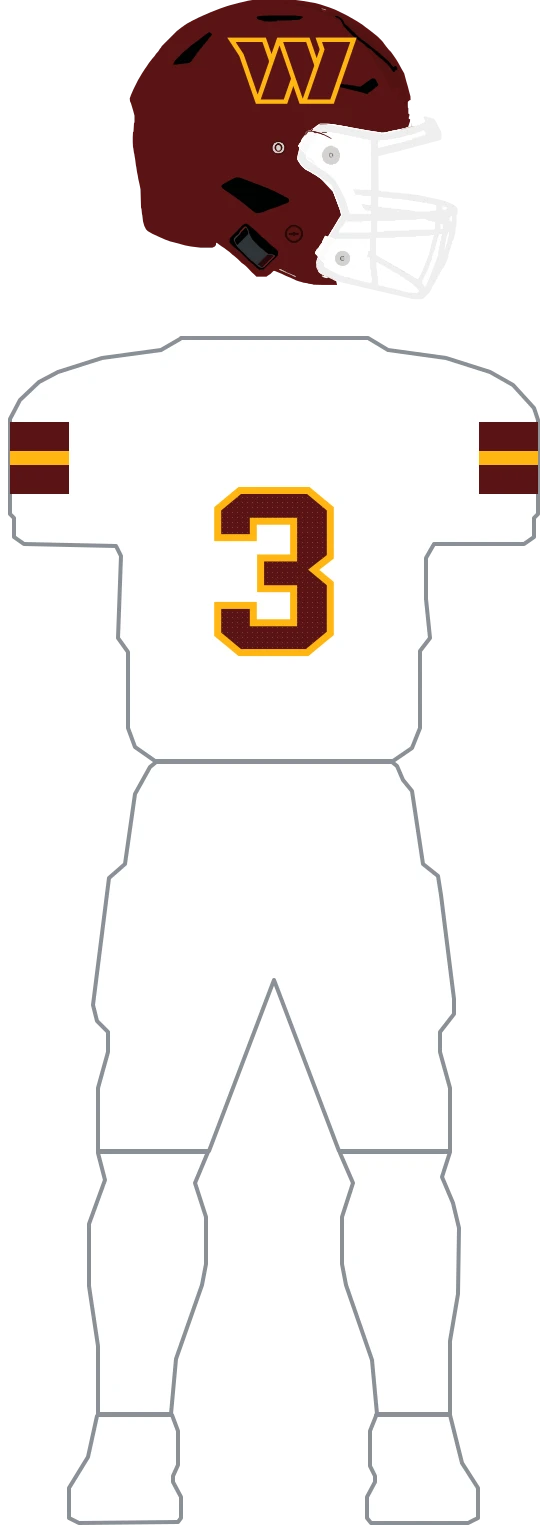
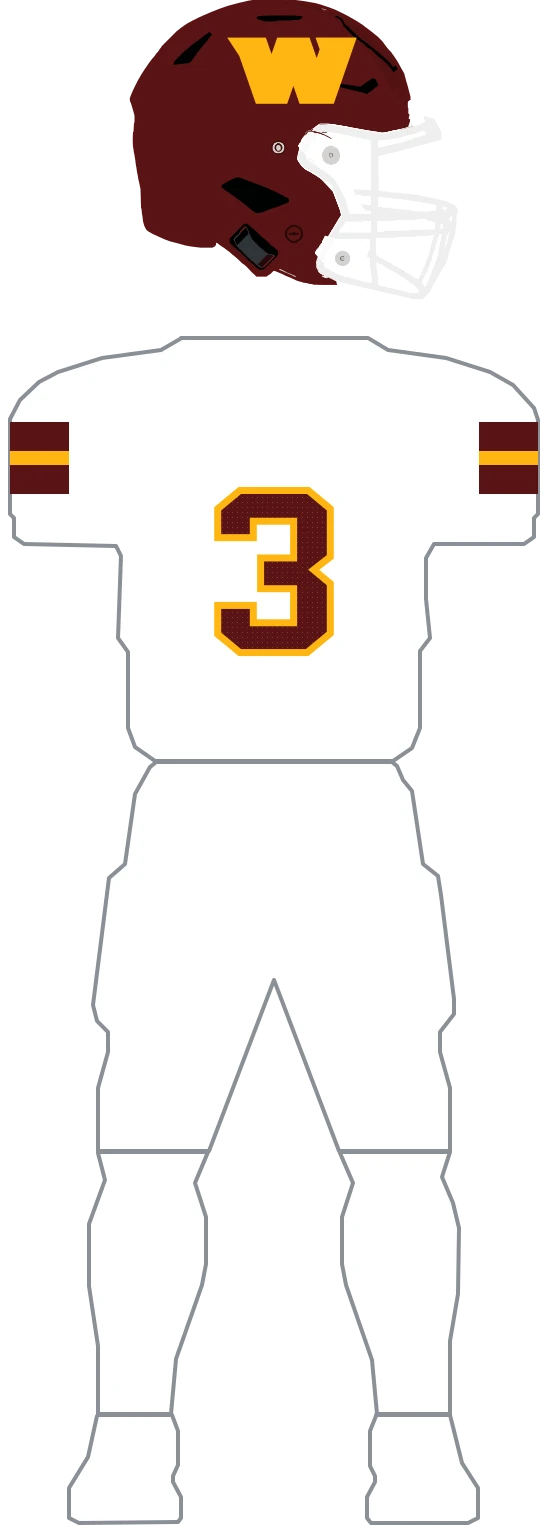
fix(uniforms): fill Commanders helmet decal

Changed region(s): [[0.425, 0.0, 0.6375, 0.0919]]

diff --git a/web/lib/uniforms/teams/commanders.parts.ts b/web/lib/uniforms/teams/commanders.parts.ts
@@ -14,7 +14,6 @@
 import {
   COMMANDERS_BOUNDS,
   COMMANDERS_DECAL_PATH,
-  COMMANDERS_DECAL_INNER_PATH,
   COMMANDERS_SLEEVE_X_LEFT,
   COMMANDERS_SLEEVE_X_RIGHT,
 } from './commanders';
@@ -46,8 +45,8 @@ function sleeveBand(band: string, line: string): PartLayer[] {
   return out;
 }
 
-// The supplied standalone SVG has a gold outer W and burgundy interior panels. Painting the
-// shell-colored panels over the gold preserves the full mark on any future non-burgundy shell.
+// The supplied standalone SVG's gold outer W is the helmet treatment; the source's burgundy
+// interior panels are omitted because the archive helmet mark is a solid gold W.
 function decal(which: string): PartLayer[] {
   return [
     {
@@ -57,14 +56,6 @@ function decal(which: string): PartLayer[] {
       clip: true,
       kind: 'fill',
       fill: which,
-    },
-    {
-      id: 'commanders-decal-inner',
-      surface: 'helmet',
-      d: COMMANDERS_DECAL_INNER_PATH,
-      clip: true,
-      kind: 'fill',
-      fill: 'burgundy',
     },
   ];
 }

diff --git a/web/lib/uniforms/teams/commanders.ts b/web/lib/uniforms/teams/commanders.ts
@@ -12,8 +12,7 @@
 export const COMMANDERS_WHITE = '#FFFFFF';
 
 // The placed outer and shell-colored inner layers are generated from the supplied SVG.
-import { COMMANDERS_DECAL_INNER_PATH, COMMANDERS_DECAL_OUTER_PATH } from './commanders-decal';
-export { COMMANDERS_DECAL_INNER_PATH };
+import { COMMANDERS_DECAL_OUTER_PATH } from './commanders-decal';
 export const COMMANDERS_DECAL_PATH = COMMANDERS_DECAL_OUTER_PATH;
 
 // The sleeve band, measured on the home figure. A column crosses gold y432-441, white y442-446 and
